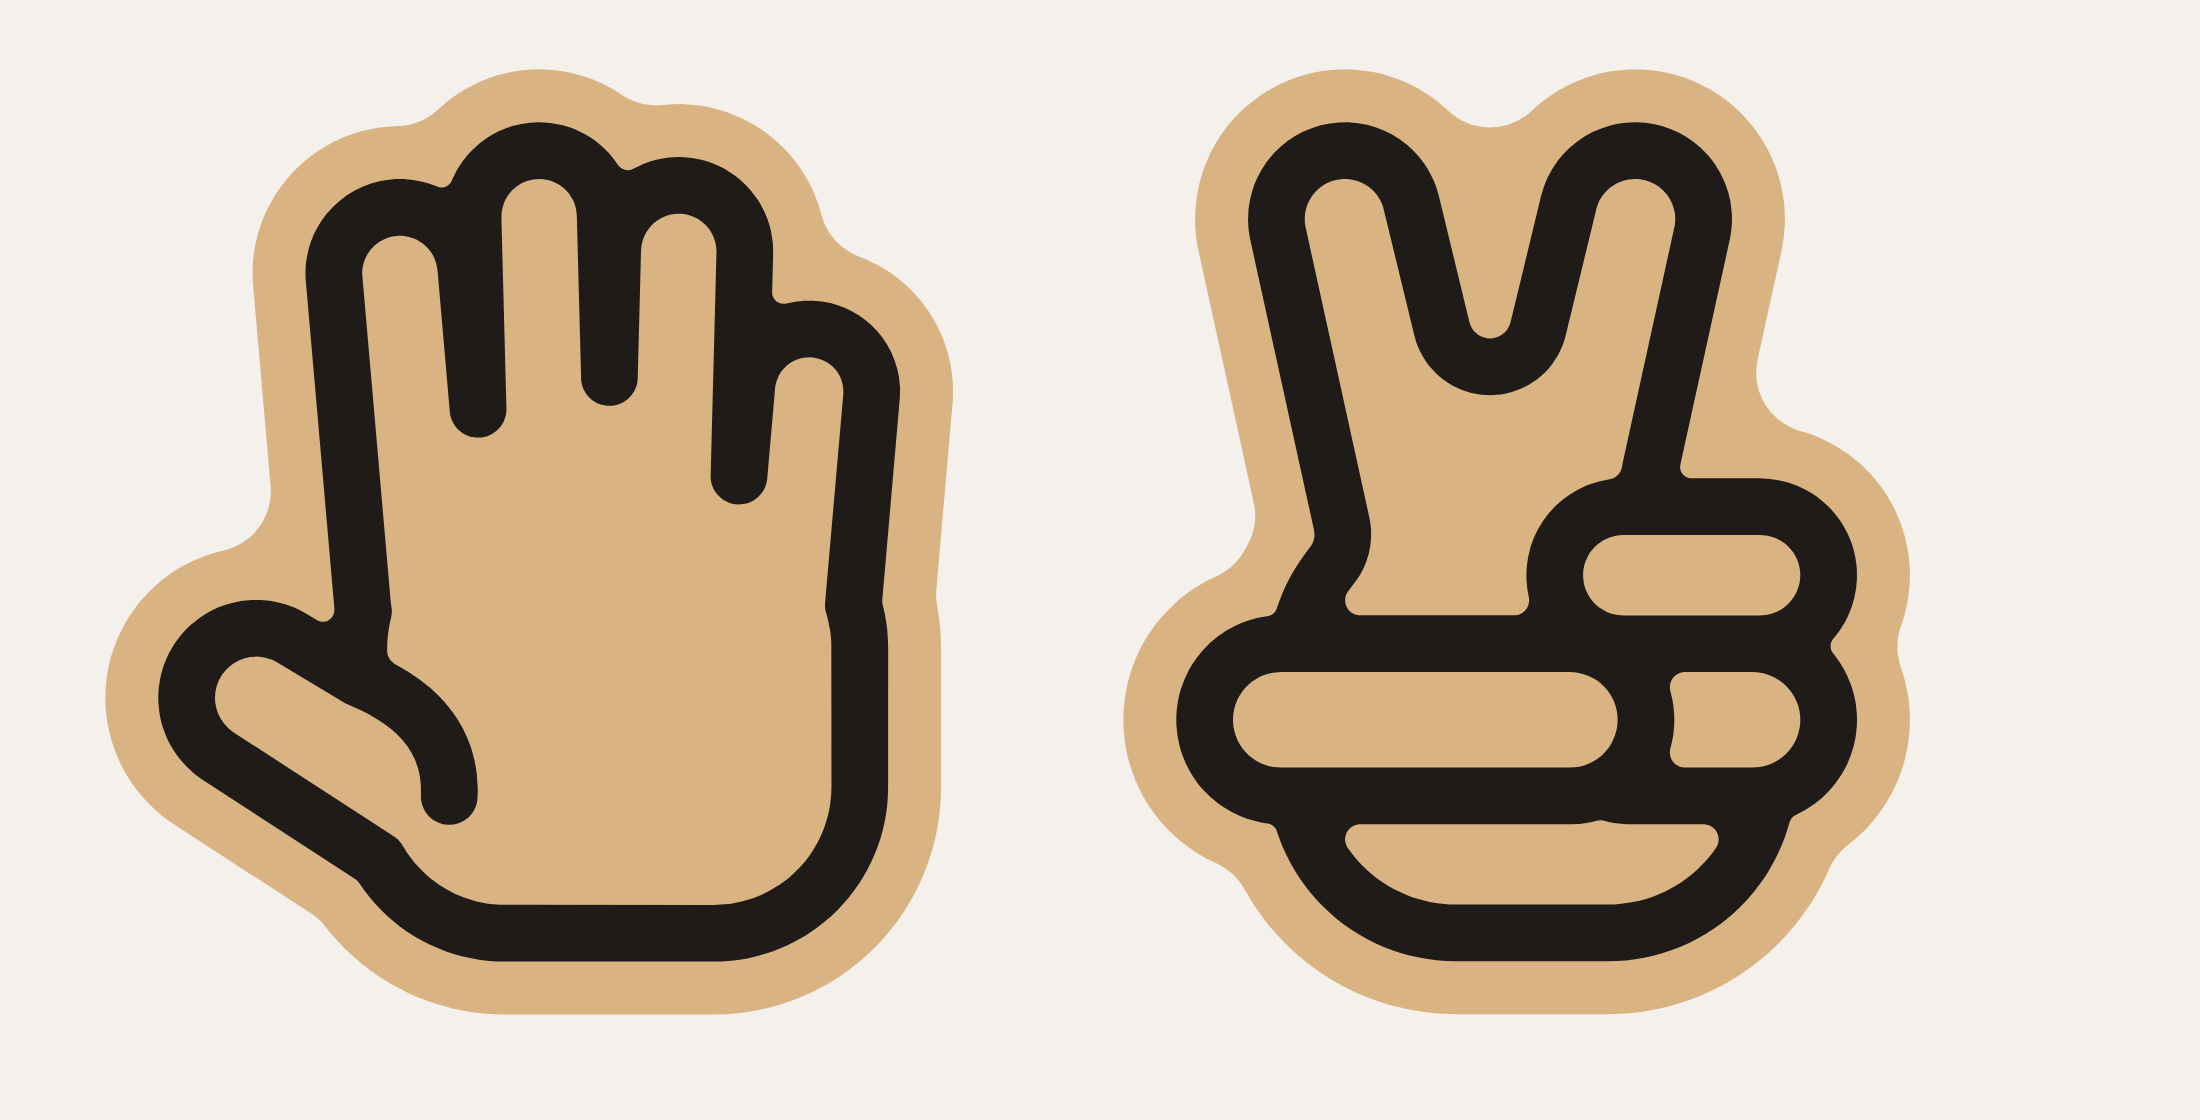
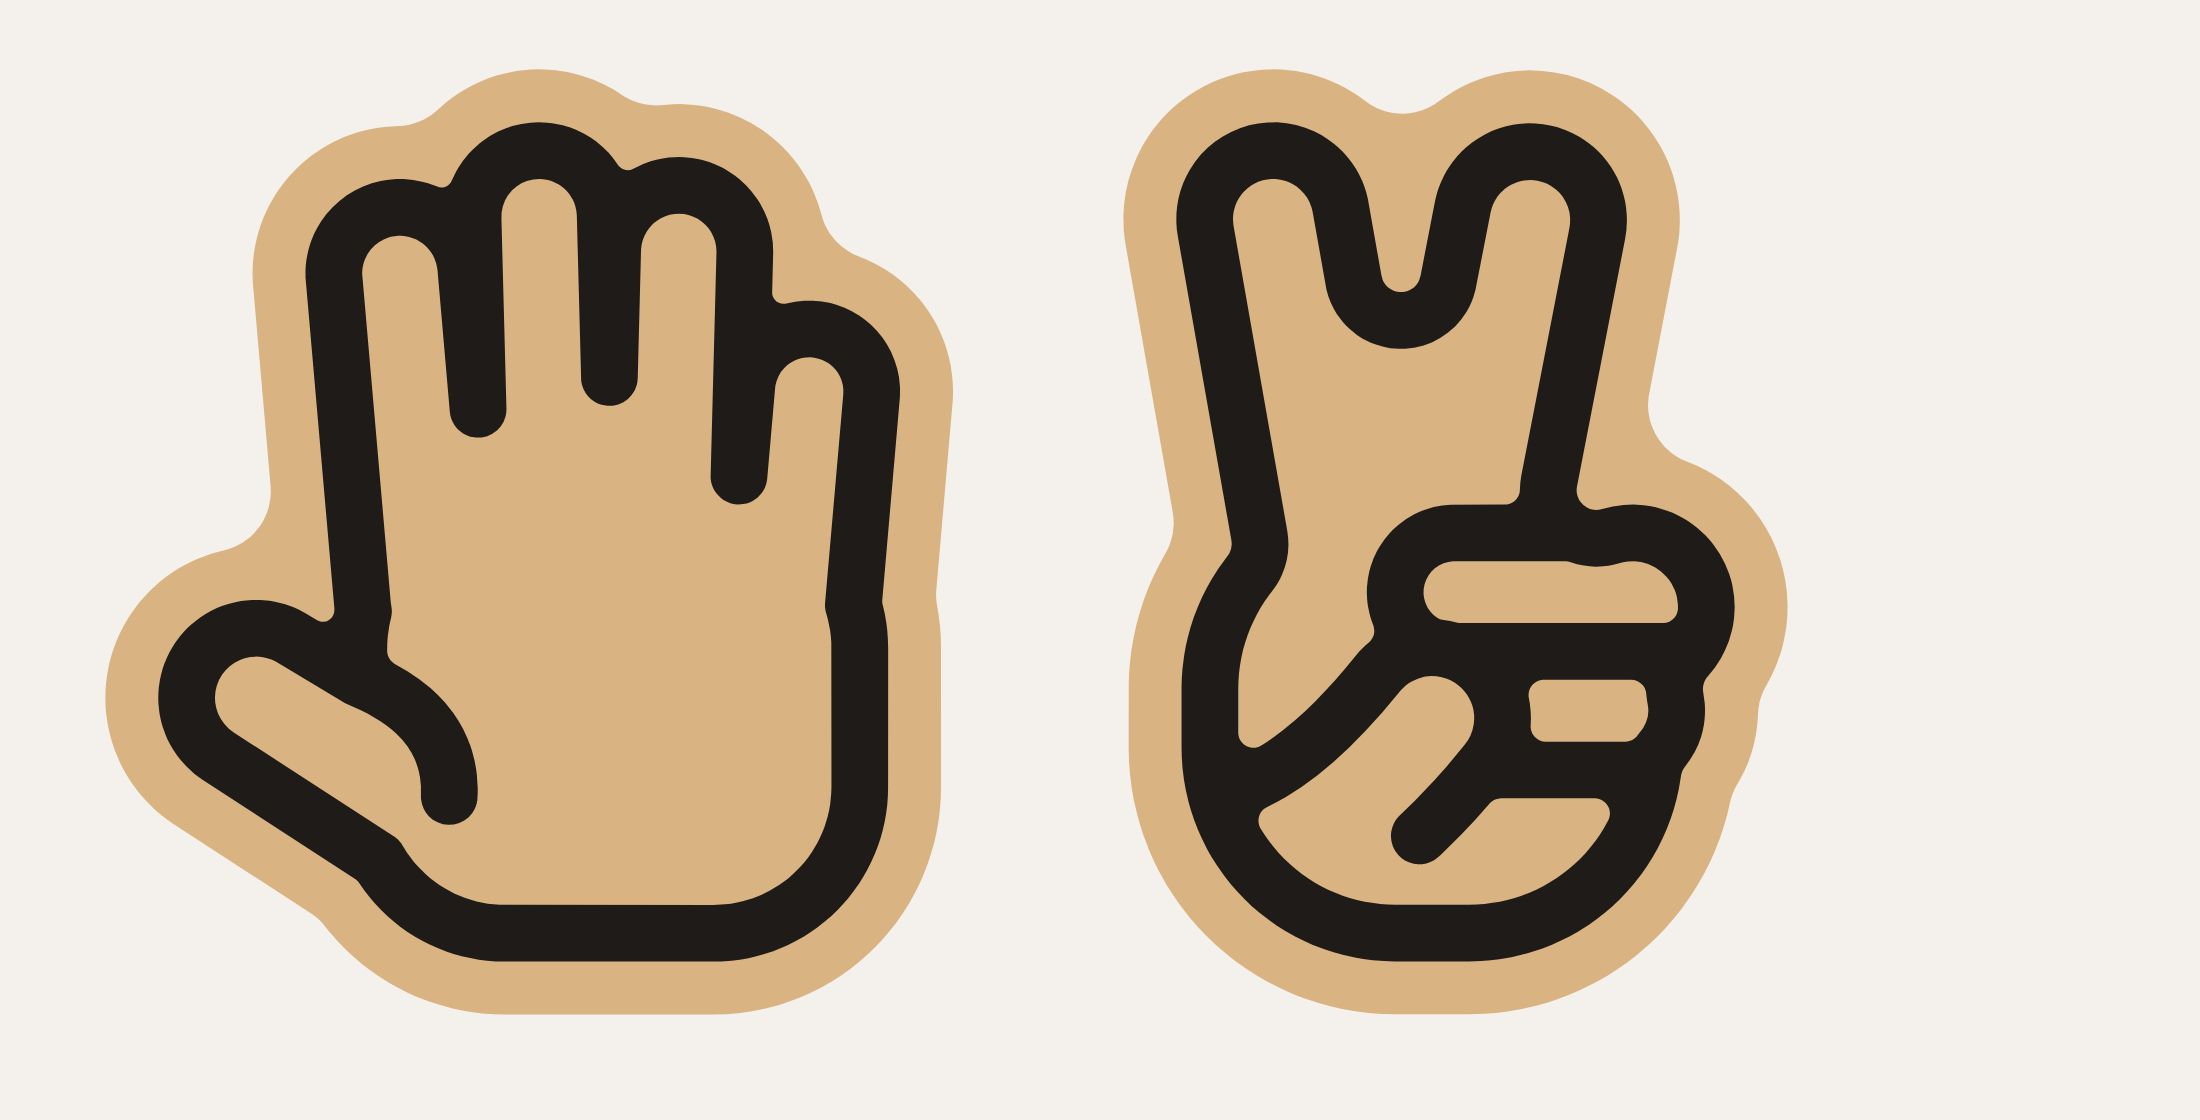
Hand signs: rework Peace in monoline style
Curled ring/little finger loops, short curved thumb, clean rounded palm
bottom. High Five unchanged.

Claude-Session: https://claude.ai/code/session_01R4zgv3VCymDjUgCX1ve87D

Changed region(s): [[0.4945, 0.0625, 0.8655, 0.9062]]

diff --git a/designs/handzeichen/generate.py b/designs/handzeichen/generate.py
@@ -102,21 +102,35 @@ def high_five():
     return parts, extra
 
 
+def ellipse(c, rx, ry, rot=0):
+    e = affinity.scale(Point(*c).buffer(1, RES), rx, ry)
+    return affinity.rotate(e, rot, origin=c)
+
+
 def peace():
-    palm = rrect(-30, 0, 32, 56, 21)
-    index = finger((-13, 8), -13, 47, 19, 18)
-    middle = finger((4, 8), 13, 47, 19, 18)
-    # V-Finger + Handfläche als eine Form; Schritt im V ausgerundet,
-    # damit zwischen den Strichen mind. 4 mm Holz bleiben.
-    hand = closing(unary_union([palm, index, middle]), 6.5)
-    # Ring- und kleiner Finger eingeklappt: zwei liegende Schlaufen, die
-    # Oberkante der oberen = Oberkante Handfläche, gemeinsame Mittelkante.
-    ring = capsule((13, 9), (31, 9), 18)
-    little = capsule((14, 28), (30, 28), 20)
-    # Daumen waagerecht über dem kleinen Finger, gleiche Ober-/Unterkante
-    # (keine spitzen Zwickel); die runde Daumenspitze liegt auf der Schlaufe.
-    thumb = capsule((-32, 28), (6, 28), 20)
-    parts = [(hand, "h"), (ring, "r"), (little, "l"), (thumb, "t")]
+    # Umriss: Handfläche, V-Finger und die Knöchel der eingeklappten Finger,
+    # die sich rechts aus der Hand wölben (oben größer); unten glatt rund.
+    palm = rrect(-30, 0, 30, 58, 25)
+    index = finger((-14, 4), -10, 43, 18.5, 18.5)
+    middle = finger((5, 4), 11, 43, 18.5, 18.5)
+    ring_k = Point(27, 14).buffer(10, RES)
+    little_k = Point(25, 28).buffer(8, RES)
+    sil = closing(unary_union([palm, index, middle, ring_k, little_k]), 6.5)
+    inside = sil.buffer(-0.3, RES)
+    # eingeklappte Finger als liegende Schlaufen (rechts offen in den Knöchel)
+    ring = capsule((3, 12), (40, 12), 16)
+    little = capsule((6, 28), (38, 28), 16)
+    # Daumen: kurzer, nach oben gebogener Strich vom linken unteren
+    # Handrand; runde Spitze liegt auf dem kleinen Finger. Unterkante nur
+    # kurz an der Spitze -> keine geschlossene Tasche unter dem Daumen.
+    axis = arc_through((-32, 49), (-16, 44), (0, 29))
+    thumb = axis.buffer(9.5, RES)
+    low = LineString(list(axis.coords)[:30])
+    lower = max((low.offset_curve(d) for d in (9.5, -9.5)), key=lambda c: c.centroid.y)
+    # auf den Umriss beschneiden: der Umriss selbst bleibt immer sichtbar
+    clip = lambda g: g.intersection(sil)
+    parts = [(sil, "h"), (clip(little), "l"), (clip(ring), "r"),
+             (clip(thumb), "t", lower.buffer(1.0, RES))]
     return parts, []
 
 
@@ -139,14 +153,16 @@ def arc_through(p0, p1, p2, n=40):
 # ------------------------------------------------------------ Geometrie-Bau
 def visible_lines(parts):
     out = []
-    for i, (poly, grp) in enumerate(parts):
+    for i, (poly, grp, *mask) in enumerate(parts):
         # verdeckt von: späteren Teilen + Teilen mit gemeinsamem Tag
         # (Tags = einzelne Kleinbuchstaben; gemeinsamer Tag = verschmolzen)
-        hide = [p for j, (p, g) in enumerate(parts)
+        # optional 3. Element: Maske, deren Kanten ausgeblendet werden
+        hide = [p for j, (p, g, *_) in enumerate(parts)
                 if j != i and (j > i or set(g) & set(grp))]
+        hide = [h.buffer(-0.01) for h in hide] + list(mask)
         line = poly.exterior
         if hide:
-            line = line.difference(unary_union(hide).buffer(-0.01))
+            line = line.difference(unary_union(hide))
         out += lines_of(line) if not isinstance(line, LineString) else [line]
     return out
 
@@ -188,7 +204,8 @@ def build_scaled(fn):
         def scaled():
             parts, extra = fn()
             sc = lambda g: affinity.scale(g, s, s, origin=(0, 0))
-            return [(sc(p), g) for p, g in parts], [sc(e) for e in extra]
+            return [(sc(p), *rest) if not rest[1:] else (sc(p), rest[0], sc(rest[1]))
+                    for p, *rest in parts], [sc(e) for e in extra]
         ink, base, filled = build(scaled)
         h = base.bounds[3] - base.bounds[1]
         s *= TARGET_H / h

diff --git a/designs/handzeichen/README.md b/designs/handzeichen/README.md
@@ -16,6 +16,6 @@ python3 generate.py <ausgabeordner>
 | `<name>_basis.svg` | Schnittkontur der Holzbasis (rot) + Schlüsselloch-Position (blau gestrichelt, nur Markierung) |
 | `vorschau.png` | beide Zeichen nebeneinander (Playwright, deviceScaleFactor 2) |
 
-Maße: Basis 125 mm hoch (High Five 112 mm, Peace 104 mm breit), Linie 7,5 mm,
+Maße: Basis 125 mm hoch (High Five 112 mm, Peace 88 mm breit), Linie 7,5 mm,
 Holzlücken innerhalb der Linie überall ≥ 4 mm, Innenecken R ≥ 1,5 mm.
 Alle Maße stehen oben in `generate.py` (STROKE, BASE_MARGIN, MIN_GAP, TARGET_H).
